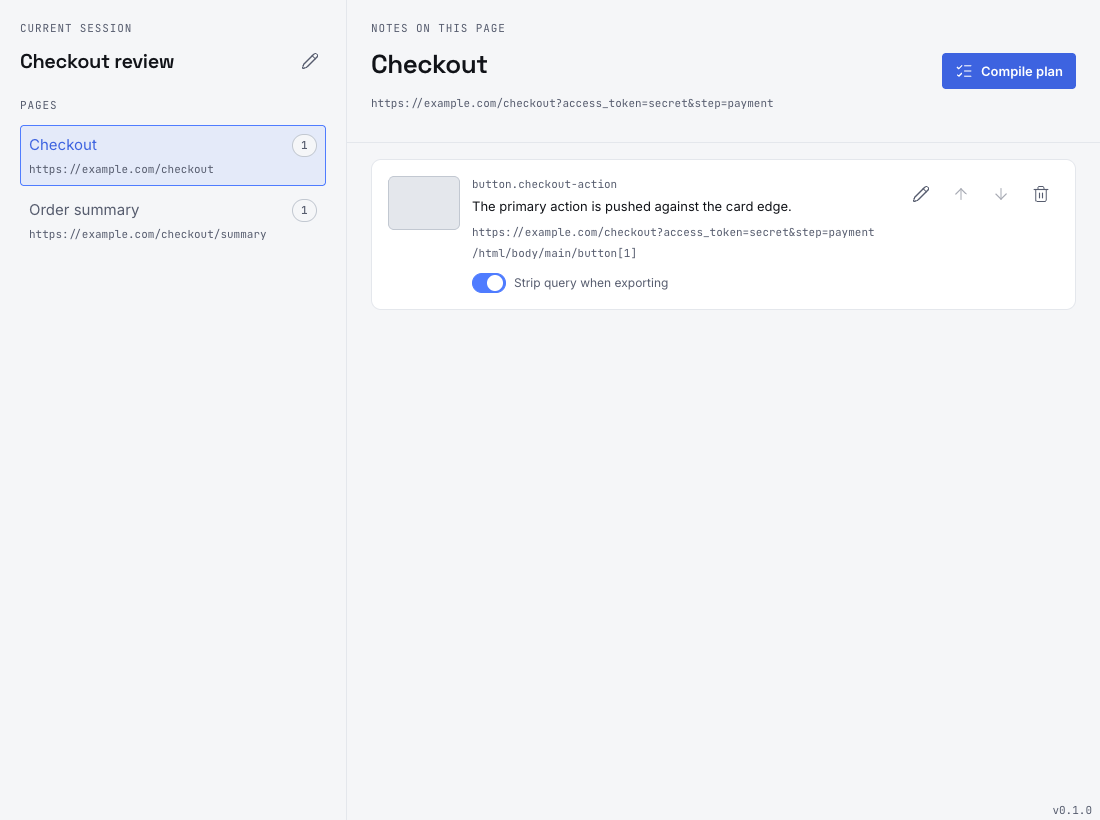
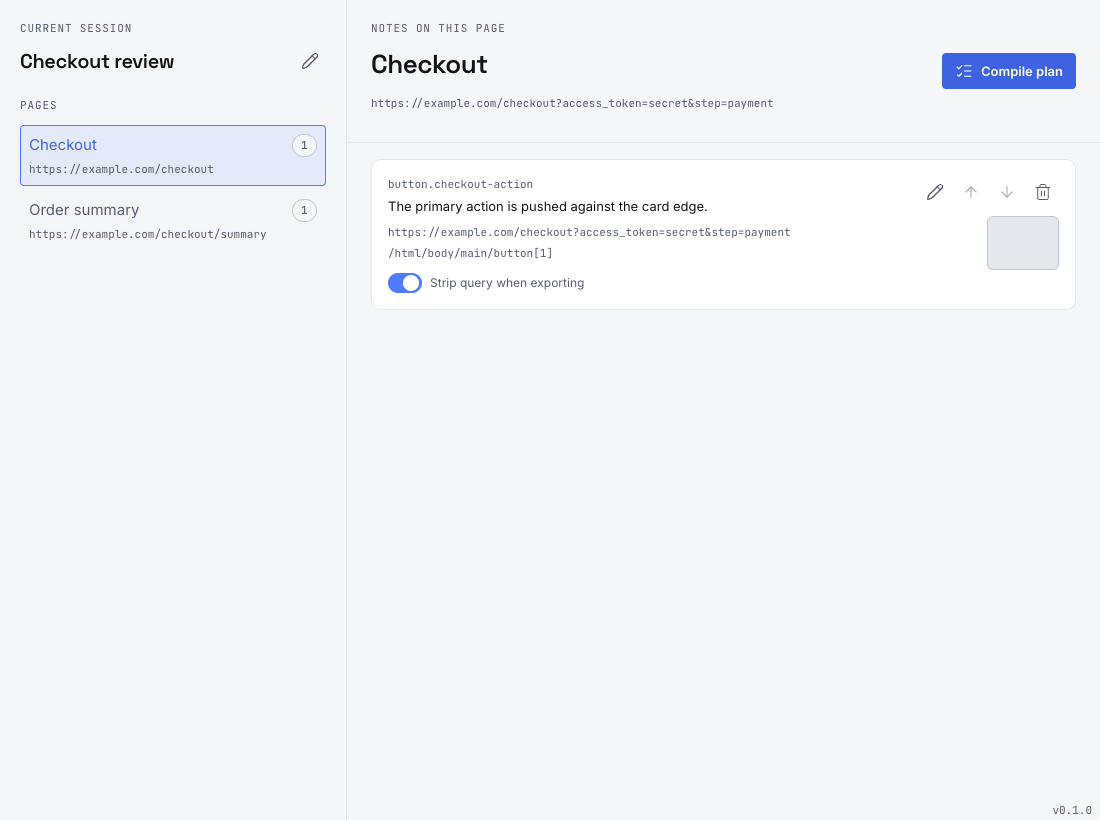
fix(sidepanel): 🐛 reorganize note cards
Keep note text and metadata in the flexible left column, with compact actions above the clipped screenshot on the right. Refresh Notes and Plan visual fixtures and Linux baselines.

Assisted-by: Codex <codex@openai.com>

Changed region(s): [[0.34, 0.2134, 0.7727, 0.3659], [0.8964, 0.2134, 0.9891, 0.3354], [0.8345, 0.2134, 0.8655, 0.2439]]

diff --git a/src/sidepanel/NotesPanel.tsx b/src/sidepanel/NotesPanel.tsx
@@ -106,11 +106,6 @@ function NoteCard(
       onPointerLeave={onPreviewClear}
       tabIndex={0}
     >
-      <CaptureMinimap
-        label={`Captured region — ${target}`}
-        screenshot={note.region.screenshot}
-        truncated={note.region.truncated}
-      />
       <div className="ps-note-card__content">
         <div className="ps-note-card__meta">
           <span className="ps-technical-value" title={target}>{target}</span>
@@ -137,36 +132,47 @@ function NoteCard(
           <span>Strip query when exporting</span>
         </label>
       </div>
-      <div className="ps-note-card__actions">
-        <IconButton
-          icon={<Icon name="pencil" />}
-          label="Edit"
-          onClick={() => {
-            if (!busy) onEdit(note);
-          }}
-        />
-        <IconButton
-          disabled={busy || !canMoveUp}
-          icon={<Icon name="arrow-up" />}
-          label="Move up"
-          onClick={() => {
-            if (!busy && canMoveUp) onMove(note, "up");
-          }}
-        />
-        <IconButton
-          disabled={busy || !canMoveDown}
-          icon={<Icon name="arrow-down" />}
-          label="Move down"
-          onClick={() => {
-            if (!busy && canMoveDown) onMove(note, "down");
-          }}
-        />
-        <IconButton
-          icon={<Icon name="trash-2" />}
-          label="Delete"
-          onClick={() => {
-            if (!busy) onDelete(note);
-          }}
+      <div className="ps-note-card__visual">
+        <div className="ps-note-card__actions">
+          <IconButton
+            icon={<Icon name="pencil" />}
+            label="Edit"
+            onClick={() => {
+              if (!busy) onEdit(note);
+            }}
+            size={16}
+          />
+          <IconButton
+            disabled={busy || !canMoveUp}
+            icon={<Icon name="arrow-up" />}
+            label="Move up"
+            onClick={() => {
+              if (!busy && canMoveUp) onMove(note, "up");
+            }}
+            size={16}
+          />
+          <IconButton
+            disabled={busy || !canMoveDown}
+            icon={<Icon name="arrow-down" />}
+            label="Move down"
+            onClick={() => {
+              if (!busy && canMoveDown) onMove(note, "down");
+            }}
+            size={16}
+          />
+          <IconButton
+            icon={<Icon name="trash-2" />}
+            label="Delete"
+            onClick={() => {
+              if (!busy) onDelete(note);
+            }}
+            size={16}
+          />
+        </div>
+        <CaptureMinimap
+          label={`Captured region — ${target}`}
+          screenshot={note.region.screenshot}
+          truncated={note.region.truncated}
         />
       </div>
     </article>

diff --git a/src/sidepanel/NotesPanel.browser.test.ts b/src/sidepanel/NotesPanel.browser.test.ts
@@ -173,6 +173,26 @@ Deno.test("notes panel reviews and persists a captured session in both themes", 
       ["Edit", "Move up", "Move down", "Delete"],
     );
     assertEquals(
+      await Promise.all([
+        firstCard.locator(".ps-note-card__content").boundingBox(),
+        firstCardActions.boundingBox(),
+        firstCard.locator(".ps-capture-minimap").boundingBox(),
+      ]).then(([content, actions, screenshot]) =>
+        content !== null && actions !== null && screenshot !== null &&
+        content.x + content.width <= screenshot.x &&
+        actions.y + actions.height <= screenshot.y
+      ),
+      true,
+      "note content must stay left while compact actions sit above the screenshot on the right",
+    );
+    assertEquals(
+      await firstCardActions.getByRole("button").evaluateAll((buttons) =>
+        buttons.every((button) => button.getBoundingClientRect().width <= 32)
+      ),
+      true,
+      "note actions must use condensed icon-button targets",
+    );
+    assertEquals(
       await firstCardActions.getByRole("button", { name: "Move up" }).isDisabled(),
       true,
     );

diff --git a/src/sidepanel/sidepanel.css b/src/sidepanel/sidepanel.css
@@ -192,7 +192,7 @@ textarea {
   border-radius: var(--radius-lg);
   display: grid;
   gap: var(--space-3);
-  grid-template-columns: auto minmax(0, 1fr) auto;
+  grid-template-columns: minmax(0, 1fr) auto;
   padding: var(--space-4);
 }
 
@@ -228,10 +228,16 @@ textarea {
 }
 
 .ps-note-card__actions {
-  align-content: start;
   display: grid;
   gap: var(--space-1);
   grid-template-columns: repeat(4, auto);
+}
+
+.ps-note-card__visual {
+  align-items: end;
+  display: flex;
+  flex-direction: column;
+  gap: var(--space-2);
 }
 
 .ps-empty-notes {
